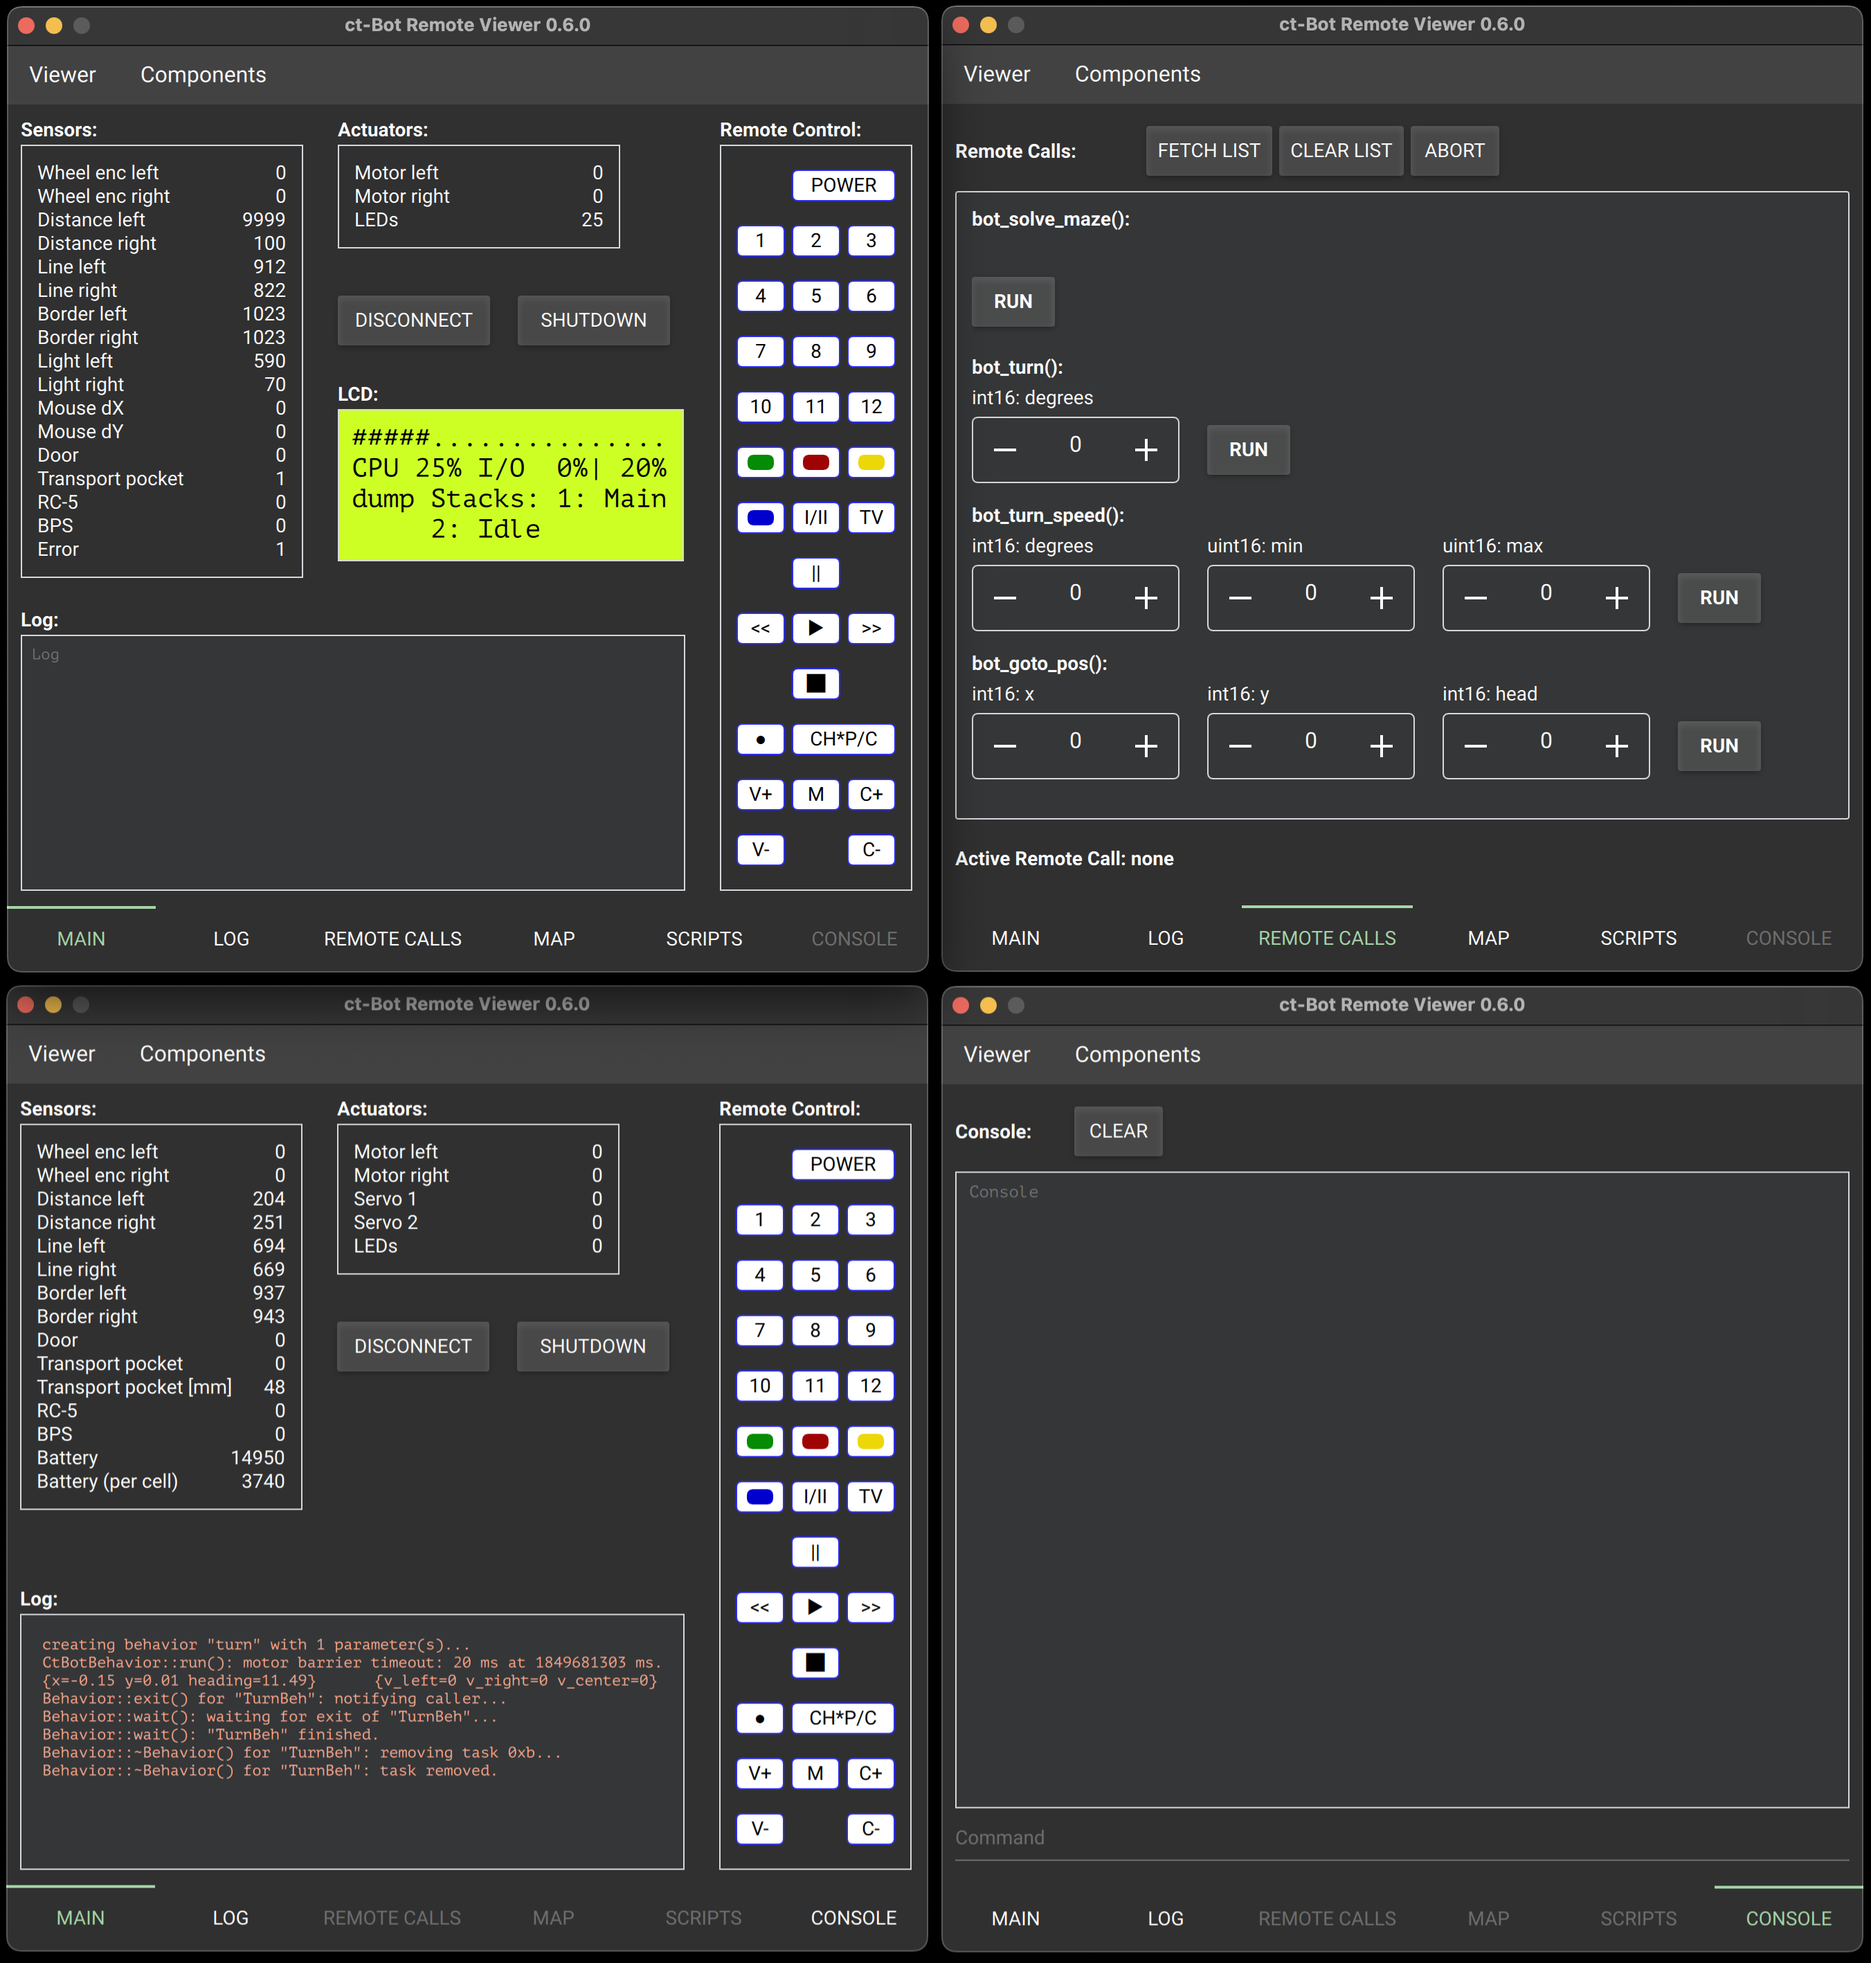
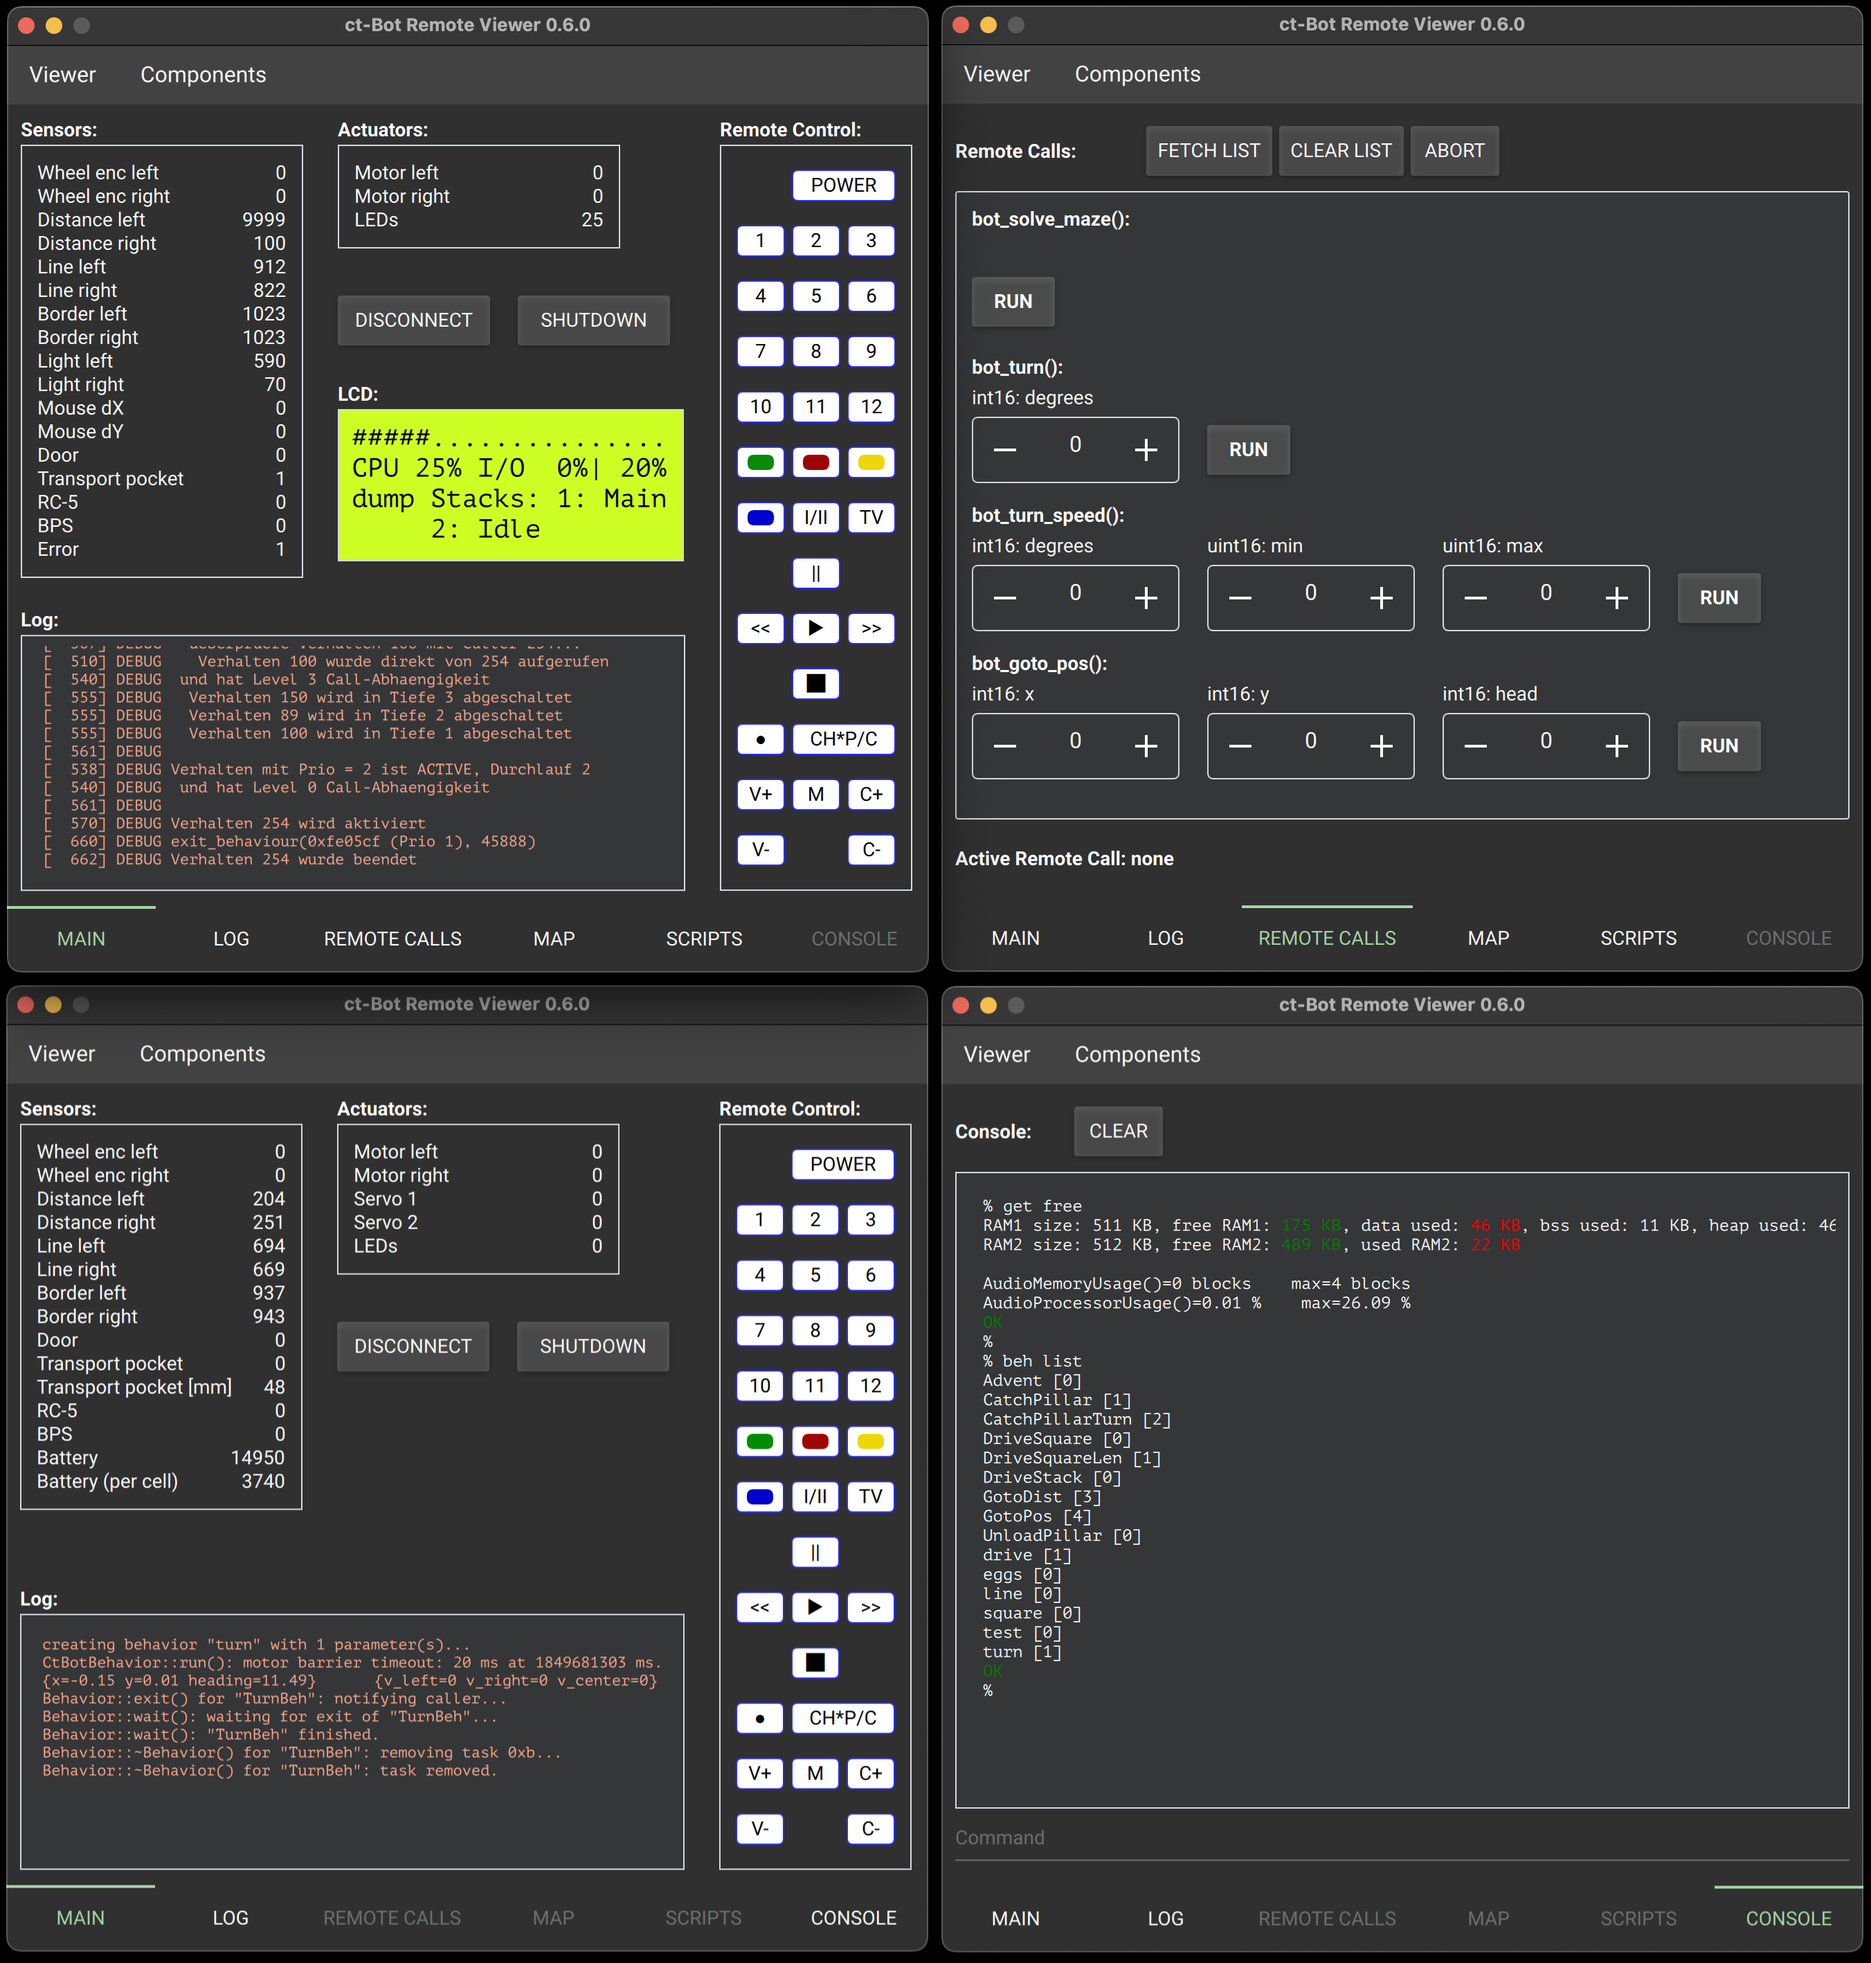
Bugfix for tab ordering, print prompt on console

Changed region(s): [[0.0311, 0.3103, 0.3108, 0.4654], [0.5283, 0.5896, 0.7769, 0.8378]]

diff --git a/TabComponent.qml b/TabComponent.qml
@@ -29,14 +29,14 @@ TabBar {
 
     TabButton {
         text: qsTr("Log")
-        onClicked: layout.currentIndex = 2
+        onClicked: layout.currentIndex = 1
     }
 
     TabButton {
         text: qsTr("Remote Calls")
 //        width: Math.max(contentItem.implicitWidth + leftPadding + rightPadding, main_tab.width)
         width: contentItem.implicitWidth + leftPadding + rightPadding
-        onClicked: layout.currentIndex = 1
+        onClicked: layout.currentIndex = 2
         enabled: main_viewer.v1.checked
     }
 

diff --git a/Main.qml b/Main.qml
@@ -35,7 +35,7 @@ ApplicationWindow {
     minimumWidth: 666
     maximumWidth: 666
     font: defaultFont.font
-    title: qsTr("ct-Bot Remote Viewer 0.6.0")
+    title: qsTr("ct-Bot Remote Viewer 0.6.1")
 
     Material.theme: Material.Dark
     Material.accent: Material.Green
@@ -54,9 +54,9 @@ ApplicationWindow {
             id: main_viewer
         }
 
-        RemoteCallComponent {}
-
         LogComponent {}
+        
+        RemoteCallComponent {}    
 
         MapComponent {}
 

diff --git a/MenuComponent.qml b/MenuComponent.qml
@@ -70,13 +70,13 @@ MenuBar {
         MenuItem {
             text: qsTr("Log")
             horizontalPadding: 10
-            onTriggered: layout.currentIndex = 2
+            onTriggered: layout.currentIndex = 1
         }
 
         MenuItem {
             text: qsTr("Remote Calls")
             horizontalPadding: 10
-            onTriggered: layout.currentIndex = 1
+            onTriggered: layout.currentIndex = 2
             enabled: main_viewer.v1.checked
         }
 

diff --git a/bot_console.cpp b/bot_console.cpp
@@ -86,6 +86,10 @@ BotConsole::BotConsole(QQmlApplicationEngine* p_engine, ConnectionManagerV2& com
 
 void BotConsole::register_buttons() {
     p_cmd_button_ = new ConnectButton { [this](QString cmd, QString) {
+        if (p_console_) {
+            QMetaObject::invokeMethod(p_console_, "add", Qt::DirectConnection, Q_ARG(QVariant, "% "));
+        }
+
         cmd += "\r\n";
         conn_manager_.get_socket()->write(cmd.toUtf8(), cmd.length());
 
